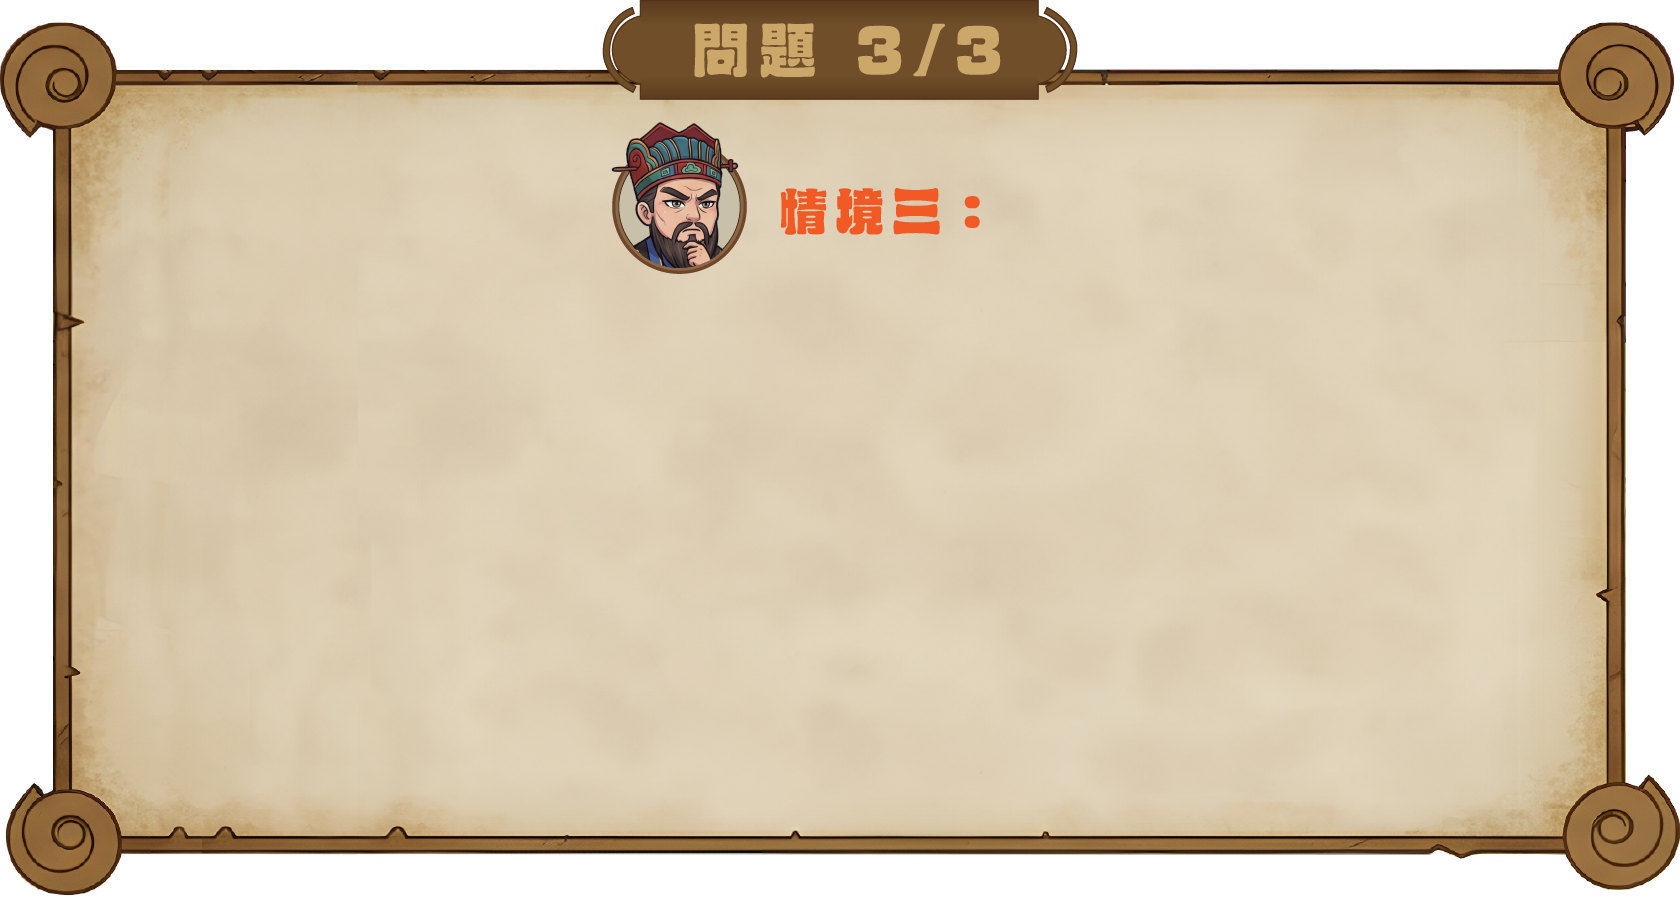
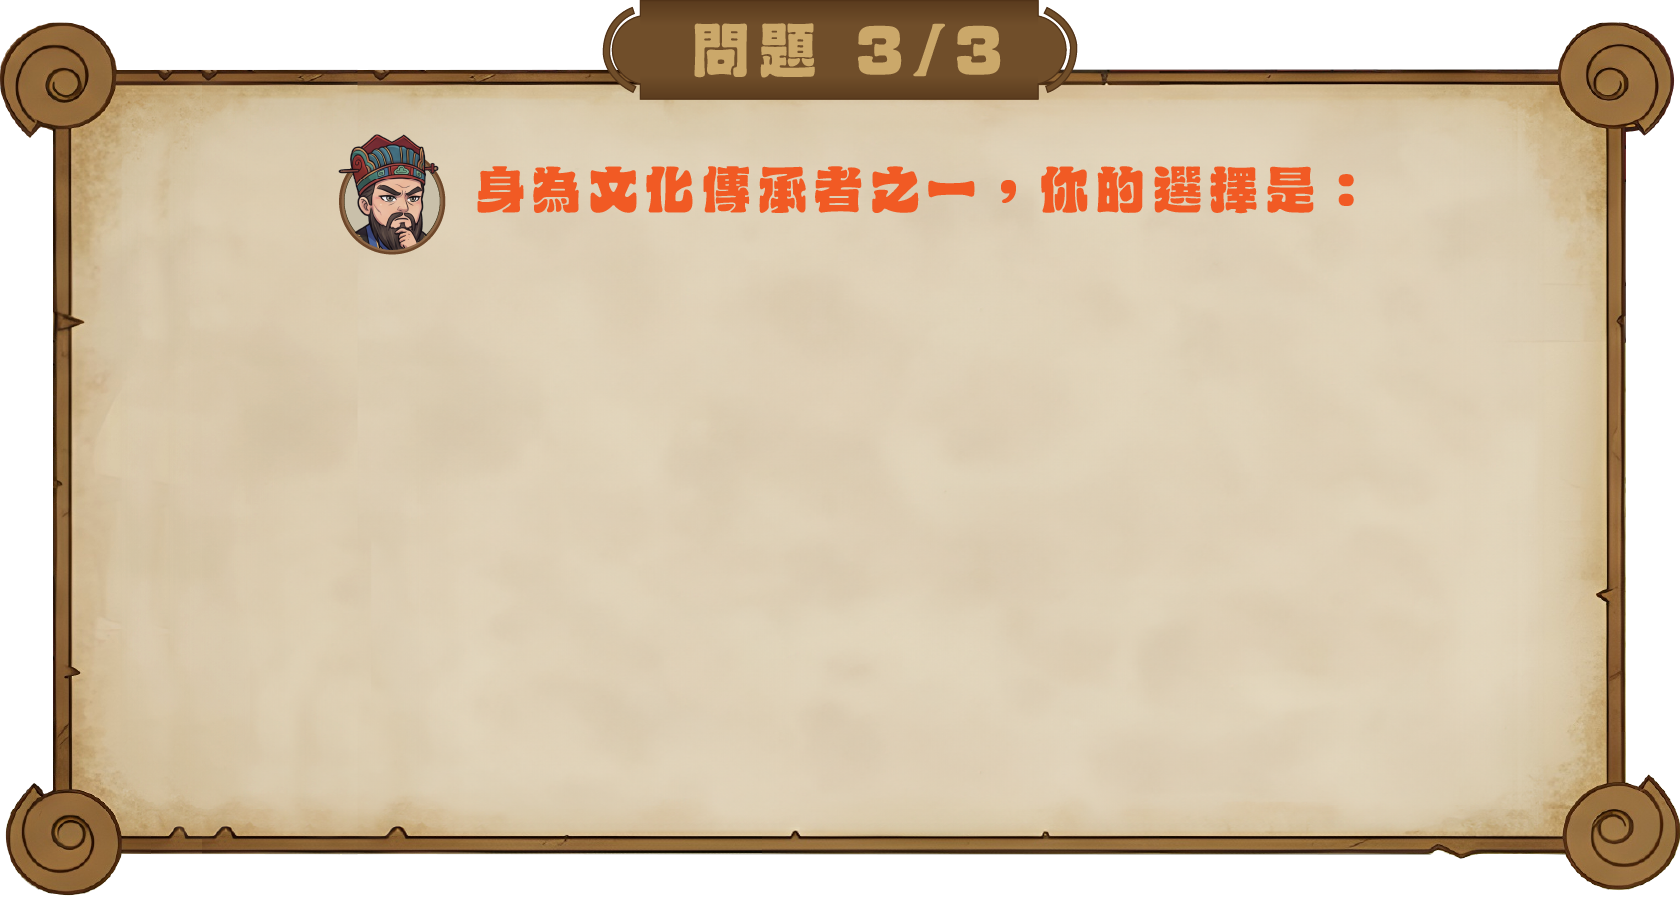
update

Changed region(s): [[0.1857, 0.1247, 0.8048, 0.3118]]

diff --git a/src/scenes/Game/GameScene_7.js b/src/scenes/Game/GameScene_7.js
@@ -15,6 +15,7 @@ export class GameScene_7 extends BaseGameScene {
 
         this.load.image('game7_npc_box_win', `${path}game7_npc_box4.png`);
         this.load.image('game7_npc_box_tryagain', `${path}game7_npc_box5.png`);
+        this.load.image('game7_npc_box6', `${path}game7_npc_box6.png`);
 
         this.load.video('game_success', `${path}game7_success_bg.mp4`);
         this.load.video('game_fail', `${path}game7_fail_bg.mp4`);
@@ -134,6 +135,19 @@ export class GameScene_7 extends BaseGameScene {
 
 
     }
+
+    onWinBubbleClose() {
+        const centerX = this.cameras.main.width / 2;
+        const centerY = this.cameras.main.height * 0.8;
+        this.dialog = this.add.image(centerX, centerY, 'game7_npc_box6')
+            .setInteractive({ useHandCursor: true }).setDepth(566).setVisible(true);
+        this.dialog.on('pointerdown', () => {
+            this.dialog.destroy();
+            this.dialog = null;
+        });
+    }
+
+
     handleLose() {
         // Prevent multiple entries
         if (this.gameState === 'gameLose') return;